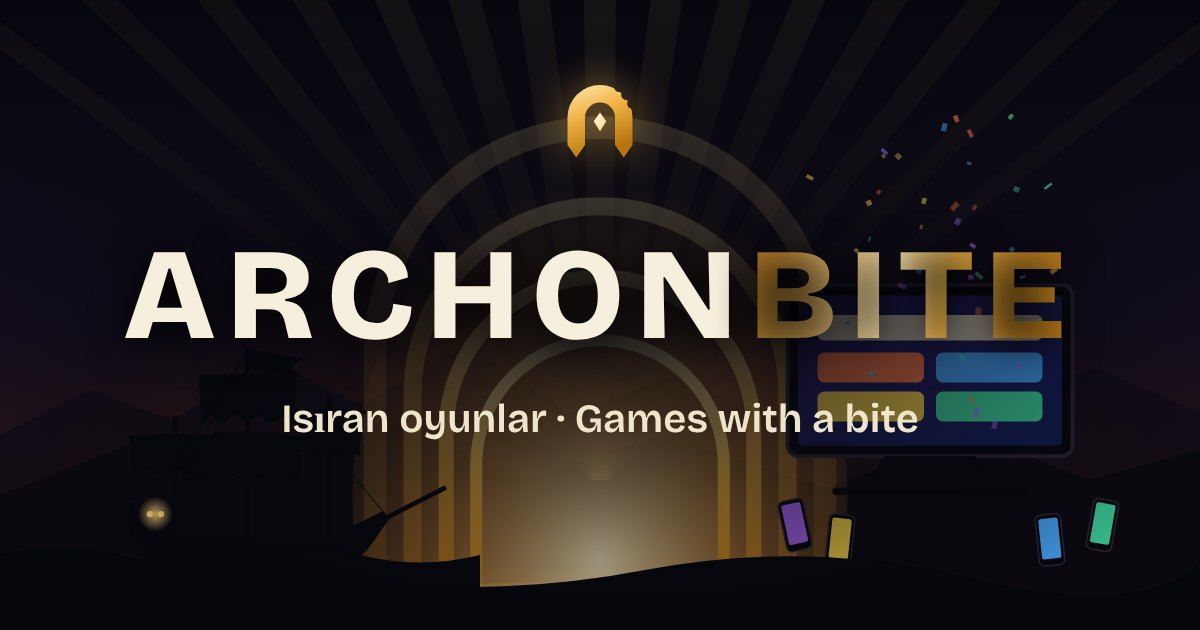
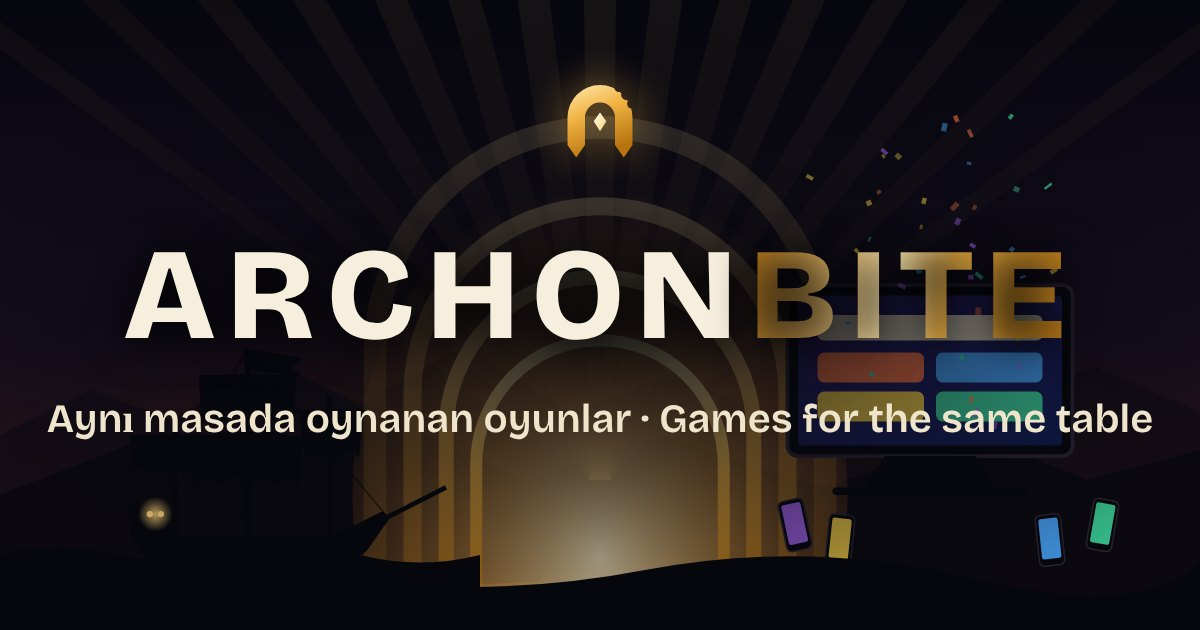
Studio site: calmer tagline (Aynı masada oynanan oyunlar)
Claude-Session: https://claude.ai/code/session_0145eTLQrFgBeE9RSZ4PYfyj

Changed region(s): [[0.0308, 0.6333, 0.9558, 0.6937]]

diff --git a/sites/archonbite/index.html b/sites/archonbite/index.html
@@ -67,7 +67,7 @@
     <div class="wrap hero-copy">
       <img class="hero-mark" src="assets/img/mark.svg" width="128" height="128" alt="">
       <h1 class="wordmark" id="hero-title">ARCHON<b>BITE</b></h1>
-      <p class="tagline" data-i18n="home.hero.tagline">Isıran oyunlar.</p>
+      <p class="tagline" data-i18n="home.hero.tagline">Aynı masada oynanan oyunlar.</p>
       <p class="sub" data-i18n="home.hero.sub">İki oyun, tek stüdyo: QuizNight ve Salty Pirate. Bağımsız, küçük ve iddialı.</p>
       <div class="hero-actions">
         <a class="btn btn-gold btn-lg" href="play/" data-i18n="home.hero.cta1">Şimdi oyna</a>
@@ -161,7 +161,7 @@
     <div class="footer-grid">
       <div>
         <a class="brand" href="./" data-i18n-attr="aria-label:nav.home" aria-label="Archonbite ana sayfa"><img src="./assets/img/mark.svg" width="34" height="34" alt=""><span>ARCHON<b>BITE</b></span></a>
-        <p data-i18n="foot.tag">Bağımsız oyun stüdyosu. Isıran oyunlar.</p>
+        <p data-i18n="foot.tag">Bağımsız oyun stüdyosu. Aynı masada oynanan oyunlar.</p>
       </div>
       <div><h2 data-i18n="common.games">Oyunlar</h2><ul>
         <li><a href="./games/quiznight/">QuizNight</a></li>

diff --git a/sites/archonbite/games/quiznight/index.html b/sites/archonbite/games/quiznight/index.html
@@ -88,7 +88,7 @@
     <div class="footer-grid">
       <div>
         <a class="brand" href="../../" data-i18n-attr="aria-label:nav.home" aria-label="Archonbite ana sayfa"><img src="../../assets/img/mark.svg" width="34" height="34" alt=""><span>ARCHON<b>BITE</b></span></a>
-        <p data-i18n="foot.tag">Bağımsız oyun stüdyosu. Isıran oyunlar.</p>
+        <p data-i18n="foot.tag">Bağımsız oyun stüdyosu. Aynı masada oynanan oyunlar.</p>
       </div>
       <div><h2 data-i18n="common.games">Oyunlar</h2><ul>
         <li><a href="../../games/quiznight/">QuizNight</a></li>

diff --git a/sites/archonbite/games/salty-pirate/index.html b/sites/archonbite/games/salty-pirate/index.html
@@ -89,7 +89,7 @@
     <div class="footer-grid">
       <div>
         <a class="brand" href="../../" data-i18n-attr="aria-label:nav.home" aria-label="Archonbite ana sayfa"><img src="../../assets/img/mark.svg" width="34" height="34" alt=""><span>ARCHON<b>BITE</b></span></a>
-        <p data-i18n="foot.tag">Bağımsız oyun stüdyosu. Isıran oyunlar.</p>
+        <p data-i18n="foot.tag">Bağımsız oyun stüdyosu. Aynı masada oynanan oyunlar.</p>
       </div>
       <div><h2 data-i18n="common.games">Oyunlar</h2><ul>
         <li><a href="../../games/quiznight/">QuizNight</a></li>

diff --git a/sites/archonbite/guide/index.html b/sites/archonbite/guide/index.html
@@ -249,7 +249,7 @@
     <div class="footer-grid">
       <div>
         <a class="brand" href="../" data-i18n-attr="aria-label:nav.home" aria-label="Archonbite ana sayfa"><img src="../assets/img/mark.svg" width="34" height="34" alt=""><span>ARCHON<b>BITE</b></span></a>
-        <p data-i18n="foot.tag">Bağımsız oyun stüdyosu. Isıran oyunlar.</p>
+        <p data-i18n="foot.tag">Bağımsız oyun stüdyosu. Aynı masada oynanan oyunlar.</p>
       </div>
       <div><h2 data-i18n="common.games">Oyunlar</h2><ul>
         <li><a href="../games/quiznight/">QuizNight</a></li>

diff --git a/sites/archonbite/play/index.html b/sites/archonbite/play/index.html
@@ -145,7 +145,7 @@
     <div class="footer-grid">
       <div>
         <a class="brand" href="../" data-i18n-attr="aria-label:nav.home" aria-label="Archonbite ana sayfa"><img src="../assets/img/mark.svg" width="34" height="34" alt=""><span>ARCHON<b>BITE</b></span></a>
-        <p data-i18n="foot.tag">Bağımsız oyun stüdyosu. Isıran oyunlar.</p>
+        <p data-i18n="foot.tag">Bağımsız oyun stüdyosu. Aynı masada oynanan oyunlar.</p>
       </div>
       <div><h2 data-i18n="common.games">Oyunlar</h2><ul>
         <li><a href="../games/quiznight/">QuizNight</a></li>

diff --git a/sites/archonbite/legal/index.html b/sites/archonbite/legal/index.html
@@ -81,7 +81,7 @@
     <div class="footer-grid">
       <div>
         <a class="brand" href="../" data-i18n-attr="aria-label:nav.home" aria-label="Archonbite ana sayfa"><img src="../assets/img/mark.svg" width="34" height="34" alt=""><span>ARCHON<b>BITE</b></span></a>
-        <p data-i18n="foot.tag">Bağımsız oyun stüdyosu. Isıran oyunlar.</p>
+        <p data-i18n="foot.tag">Bağımsız oyun stüdyosu. Aynı masada oynanan oyunlar.</p>
       </div>
       <div><h2 data-i18n="common.games">Oyunlar</h2><ul>
         <li><a href="../games/quiznight/">QuizNight</a></li>

diff --git a/sites/archonbite/404.html b/sites/archonbite/404.html
@@ -67,7 +67,7 @@
     <div class="footer-grid">
       <div>
         <a class="brand" href="/" data-i18n-attr="aria-label:nav.home" aria-label="Archonbite ana sayfa"><img src="/assets/img/mark.svg" width="34" height="34" alt=""><span>ARCHON<b>BITE</b></span></a>
-        <p data-i18n="foot.tag">Bağımsız oyun stüdyosu. Isıran oyunlar.</p>
+        <p data-i18n="foot.tag">Bağımsız oyun stüdyosu. Aynı masada oynanan oyunlar.</p>
       </div>
       <div><h2 data-i18n="common.games">Oyunlar</h2><ul>
         <li><a href="/games/quiznight/">QuizNight</a></li>
